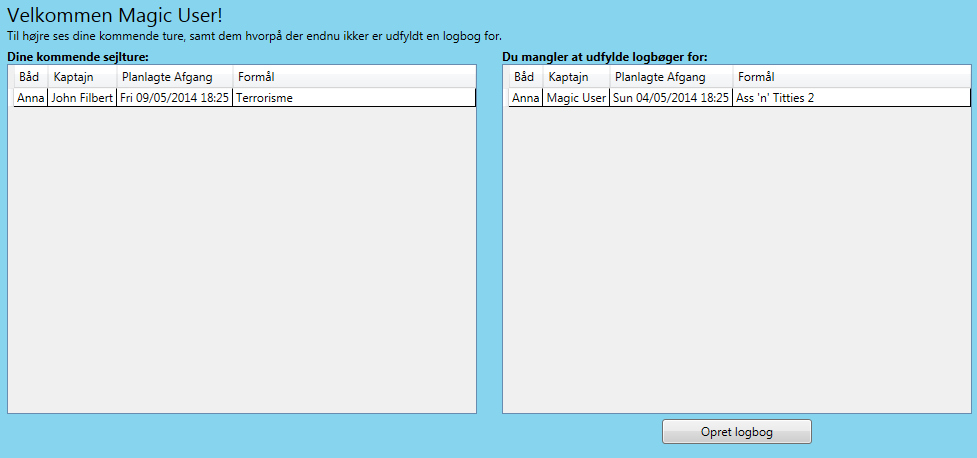
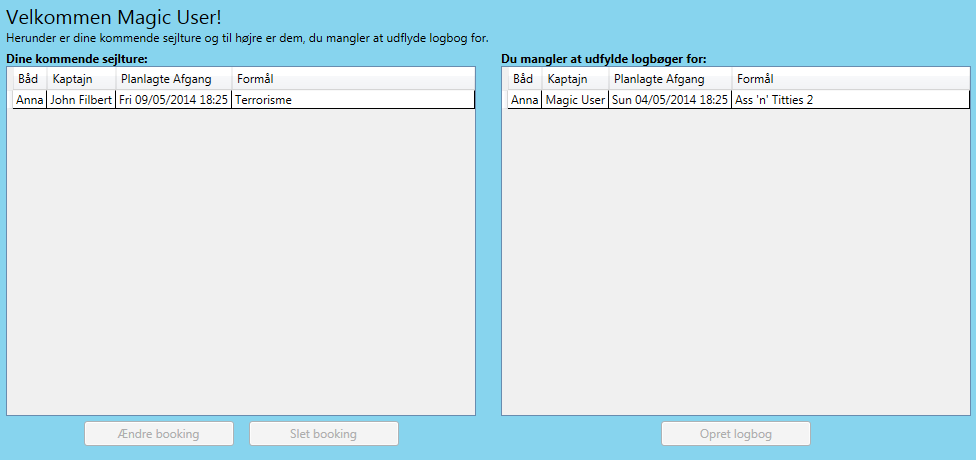
Frontpage and CreateBoatbooking

Changed region(s): [[0.0, 0.0, 1.0, 0.2445], [0.0615, 0.8865, 0.4303, 0.9782], [0.6762, 0.8865, 0.8299, 0.9782]]

diff --git a/chapters/ui_dokumentation.tex b/chapters/ui_dokumentation.tex
@@ -66,52 +66,123 @@ Programmet har et lyst farveskema, men farverne hvid og en lys blå som hovedfar
 Der anvendes UserControls til at kode både brugergrænsefladen og den tilhørende code behind.
 
 \subsection{Forside}
-%\begin{wrapfigure}{r}{0.75\textwidth}
-%    \label{img:frontpage}
-%    \vspace{-20pt}
-%    \begin{center}
-%        \includegraphics[scale=0.75]{UI/UserControl_FrontPage}
-%    \end{center}
-%    \vspace{-15pt}
-%    \caption{Login interface}
-%\end{wrapfigure}
+\begin{figure}
+    \label{img:frontpage}
+    \vspace{-10pt}
+    \begin{center}
+        \includegraphics[scale=0.55]{UI/UserControl_FrontPage}
+    \end{center}
+    \vspace{-15pt}
+    \caption{FrontPage-Usercontrol}
+\end{figure}
 
+\textbf{Formål}: 
+Formålet med forsiden er at vise aktuel infomation på en overskulig måde for brugeren.
+Det er den første side som medlemmer, og op, ser.
+Fra forsiden kan man ændre og slette sine bookings, samt starte oprettelsen af en logbog.
 
-\textbf{Datafremvisning:} 
-En brugers kommende sejlture, og sejlture hvor brugeren mangler at udgylde logbøger for.
+\textbf{BrugerGrænseflade}: 
+Brugergrænsefladen er forsiden består primært af to DataGrids, det venste viser de kommende sejlture og det højre viser dem personen manlger at udføre logbøger for. 
+Under dem er der knapper, som bliver aktive efter en markering er udført ved, at trykke på en af rækkerne i det passende DataGrid.
 
-\textbf{Funktioner:} 
-Kan åbne opret logbogsvinduet, enten ved dobbeltklik på sejltur, eller ved valgt af markering og tryk på opret logbog knappen. 
+\textbf{Code-Behind}: 
+For at kun vise de sejlture hvor personen som er logget ind deltager i, anvendes der standard query operatorerne. 
+I Listing \ref{fntpg-cb} er et udsnit af koden, nærmere bestemt den del som vælger de rigtige sejlture.
+Det første udtryk finder de ture som er i fremtiden, hvor personen indgår i besætningslisten, ud fra alle turene.
 
-\textbf{Logik:} 
-Hvis ingen sejltur er valgt i DataGridet med logbøger, så skal opret logbog knappen ikke være tilgængelig.
+Det andet udtryk finder de ture, hvor den nuværende person er kaptajn for, som er forventet at være returneret til havn og ikke har nogen logbog. 
 
-\fixme{Mangler billede, tænker at vi tager screenshots fra en platfor (win8/win7)}
+Begge udtryk returnerer en IEnumerable som derefter assignes som DataGridenes ItemSource.
 
+\begin{lstlisting}[frame=single, caption=Forsidens Code-Behind, label=fntpg-cb]
+UpcommingTripsDataGrid.ItemsSource =
+    sailTripList.Where(t => t.Crew.Select(p => p.PersonId).Contains(usrId))
+        .Where(t => t.DepartureTime > DateTime.Now);
+
+LogbookDataGrid.ItemsSource =
+    sailTripList.Where(t => t.Captain.PersonId == usrId && t.ArrivalTime < DateTime.Now && t.Logbook == null);
+\end{lstlisting}
 
 \section{Vinduer}
-\subsection{Opret sejltur}
+\subsection{CreateBoatBookingWindow}
 
-\textbf{Datafremvisning:} 
-Viser det data som bliver valgt, når brugeren vælger det. 
-Der er også flere conscructorer, således der kan forudintastes data ved dets oprettelse.
+\begin{wrapfigure}{R}{0.5\textwidth}
+    \label{img:boatBookWindow}
+    \vspace{-20pt}
+    \begin{center}
+        \includegraphics[width=0.48\textwidth]{UI/CreateBoatbookingWindow.png}
+    \end{center}
+    \vspace{-20pt}
+    \caption{CreateBoatbookingWindow}
+    \vspace{-30pt}
+\end{wrapfigure}
 
-\textbf{Funktioner:} 
-Kan åbne vælg besætningsvinduet. 
-Kan gemme data til databasen, hvis turen er gyldig.
+\textbf{Formål}: 
+Dette vindue opretter, eller ændrer, en \textbf{RegularTrip} (En bådbooking).
+Dette vindue anvendes fire stedder i programmet, fra \textbf{Boats}-UserControllen, \textbf{NewLecture}-vinduet (under Undervisning), og fra \textbf{FrontPage}-UserControllen eller \textbf{Boats}-UserControllen (Til at redigere en booking). 
 
-\textbf{Logik:} 
-Der verificeres om turen er gyldig, der er flere krav:
-\begin{itemize}
-    \item Er der valgt en båd?
-    \item Er starttidspunktet efter det nuværende?
-    \item Er sluttidspunktet efter starttidspunktet?
-    \item Er båden ledig i dette tidsrum?
-    \item Er der valgt mindst et besætningsmedlem?
-    \item Er der valgt en kaptajn?
-    \item Er der angivet et formål?
-\end{itemize}
+\textbf{BrugerGrænseflade}: 
+Vinduet er opbygget af et vertikalt StackPanel.
+Først vælges en båd, her anvendes en ComboBox da der skal vælges en værdi fra en liste.
+Herefter anvendes \textbf{DateTimePicker}-UserControllen til at vælge et start- og sluttidspunkt.
+Der vises den nuværende besætning, samt muligheden for at ændre den ved at trykke på en Button med labellet ``Ændre Besætning''.
+Når en besætning er valgt, kan der vælges en kaptajn ud fra besætningslisten.
+Tilsidst er der en TextBox, hvori brugeren kan angive formålet med turen.
+Derudover er der to Buttons, en til at gemme og en til at annulere.
 
+\textbf{Code-Behind}: 
+Til vinduet er der tre constructors, dette er således de fire stedder hvorfra vinduet åbnes, hver kan behande det på deres måde, da to af dem er ens. 
+De tre constuctors er i Listing \ref{threeConstructors}.
+Den første constuctor skaber et nyt vindue, herunder henter den bådede fra DataBasen og bliver kaldt fra Boats-UserControllen.
+Den vælger også den båd, som er angivet i dens index parameter.
+De to DateTimerPickere sættes også til det nuværende tidspunkt, dette gør det nemmere at vælge et passende tidspunkt for den kommende booking.
+
+De to andre constructors kalder, den første da den er grundlæggende for at kunne bruge vinduet. 
+Constructoren med forskiften ``CreateBoatBookingWindow(RegularTrip rt) : this(-1)'', ændrer teksten på gem knappen fra ``Gem Booking'' til ``Ændre Booking''. \fixme{Skal der være nutids-r på ændre(r)?}
+Samt den ændre hvilken methode den kalder, således der ikke forsøges at oprette en ny sejltur, men derimod opdateres en ekstisterende. 
+Fælles for de to metoder som kaldes af knappen er at de skal verificere gyldigheden af en tur. 
+Dette udføres i ``CreateSailTrip()'' som returner en gyldig instans af SailTrip-klassen hvis turen er gyldig, eller null og en fejlbesked hvis den ikke er. 
+Dette null bliver håndtereret af kaldermetoden, således der ikke opstår exceptions.
+
+\begin{lstlisting}[frame=single, caption=De tre constuctoreres forskrifter, label=threeConstructors]
+// Called to Initialize the window, from the other constructors and from the Boats-UserControl
+public CreateBoatBookingWindow(int index)
+{
+    InitializeComponent();
+
+    // Initialize ComboBoxes and Databaseforbindelsen
+    [...]
+
+    // Set DateTimerPickers to the current time.
+    [...]
+}
+
+// Called to edit a trip from the FrontPage
+public CreateBoatBookingWindow(RegularTrip rt) : this(-1)
+{
+    // Sets all the value from the input RegularTrip
+    [...]
+
+    // Change the text and behaveour of the buttons
+    [...]
+}
+
+// Called from NewLecture
+public CreateBoatBookingWindow(DateTime departure, DateTime arrival, Team currentTeam) : this(-1)
+{
+    // Sets values to match the parameters given
+    [...]
+
+    // Set the Captain to be the tracher
+    [...]
+
+    // Add a description of the class in the PurposeTextBox.
+    [...]
+
+    // Call the SaveFunction
+    [...]
+}
+\end{lstlisting}
 
 \subsection{CreateCrewWindow}
 

diff --git a/preamble/preamble.tex b/preamble/preamble.tex
@@ -134,10 +134,12 @@
 \definecolor{greencomments}{rgb}{0,0.5,0}
 \definecolor{redstrings}{rgb}{0.9,0,0}
 
+\usepackage{courier}
 
 \usepackage{listings}
 \lstset{language=[Sharp]C,
-  captionpos=b,                    
+  captionpos=b,            
+  columns=fixed,     
   numbers=left,
   numberstyle=\tiny,
   showspaces=false,
@@ -150,7 +152,7 @@
   commentstyle=\color{greencomments},
   keywordstyle=\color{bluekeywords},
   stringstyle=\color{redstrings},
-  basicstyle=\ttfamily,
+  basicstyle=\ttfamily\small,
   literate={ø}{{\o}}1
   		   {æ}{{\ae}}1
   		   {å}{{\aa}}1
